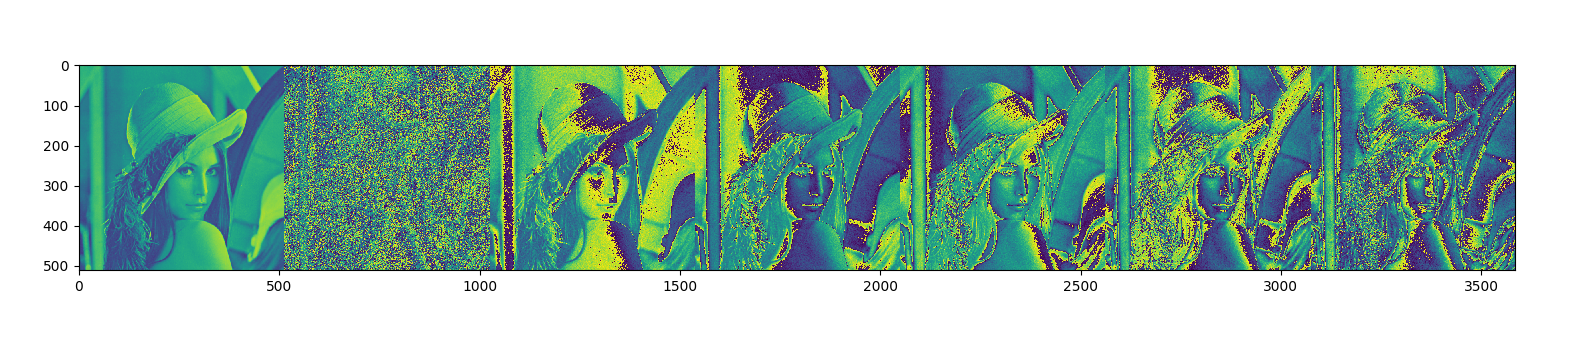
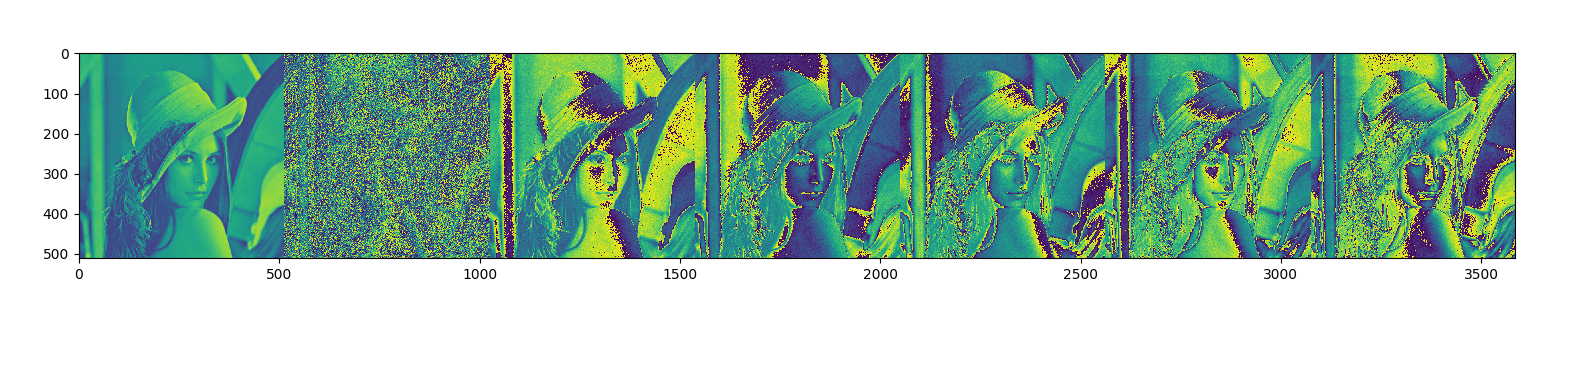
Corrected more errors

diff --git a/Assignment_2/1.py b/Assignment_2/1.py
@@ -45,7 +45,7 @@ def salt_pepper_noise(img):
 		noise_img = random_noise(img, mode='s&p', amount=0.1)
 		sum_ = sum_ + noise_img
 
-	noise_img_5 = sum_ / 20
+	noise_img_5 = sum_ / 25
 	noise_img_5 = np.array(255*noise_img_5, dtype='uint8')
 	X = np.concatenate((X, noise_img_5), axis=1)
 
@@ -53,7 +53,7 @@ def salt_pepper_noise(img):
 		noise_img = random_noise(img, mode='s&p', amount=0.1)
 		sum_ = sum_ + noise_img
 
-	noise_img_6 = sum_ / 20
+	noise_img_6 = sum_ / 30
 	noise_img_6 = np.array(255*noise_img_6, dtype='uint8')
 	X = np.concatenate((X, noise_img_6), axis=1)
 
@@ -99,7 +99,7 @@ def Additive_Gaussian_noise(img):
 		noise_img = random_noise(img, mode='gaussian', mean=0, var=0.01)
 		sum_ = sum_ + noise_img
 
-	noise_img_5 = sum_ / 20
+	noise_img_5 = sum_ / 25
 	noise_img_5 = np.array(255*noise_img_5, dtype='uint8')
 	X = np.concatenate((X, noise_img_5), axis=1)
 
@@ -107,7 +107,7 @@ def Additive_Gaussian_noise(img):
 		noise_img = random_noise(img, mode='gaussian', mean=0, var=0.01)
 		sum_ = sum_ + noise_img
 
-	noise_img_6 = sum_ / 20
+	noise_img_6 = sum_ / 30
 	noise_img_6 = np.array(255*noise_img_6, dtype='uint8')
 	X = np.concatenate((X, noise_img_6), axis=1)
 
@@ -153,7 +153,7 @@ def Speckle_noise(img):
 		noise_img = random_noise(img, mode='speckle', mean=0, var=0.01)
 		sum_ = sum_ + noise_img
 
-	noise_img_5 = sum_ / 20
+	noise_img_5 = sum_ / 25
 	noise_img_5 = np.array(255*noise_img_5, dtype='uint8')
 	X = np.concatenate((X, noise_img_5), axis=1)
 
@@ -161,7 +161,7 @@ def Speckle_noise(img):
 		noise_img = random_noise(img, mode='speckle', mean=0, var=0.01)
 		sum_ = sum_ + noise_img
 
-	noise_img_6 = sum_ / 20
+	noise_img_6 = sum_ / 30
 	noise_img_6 = np.array(255*noise_img_6, dtype='uint8')
 	X = np.concatenate((X, noise_img_6), axis=1)
 
